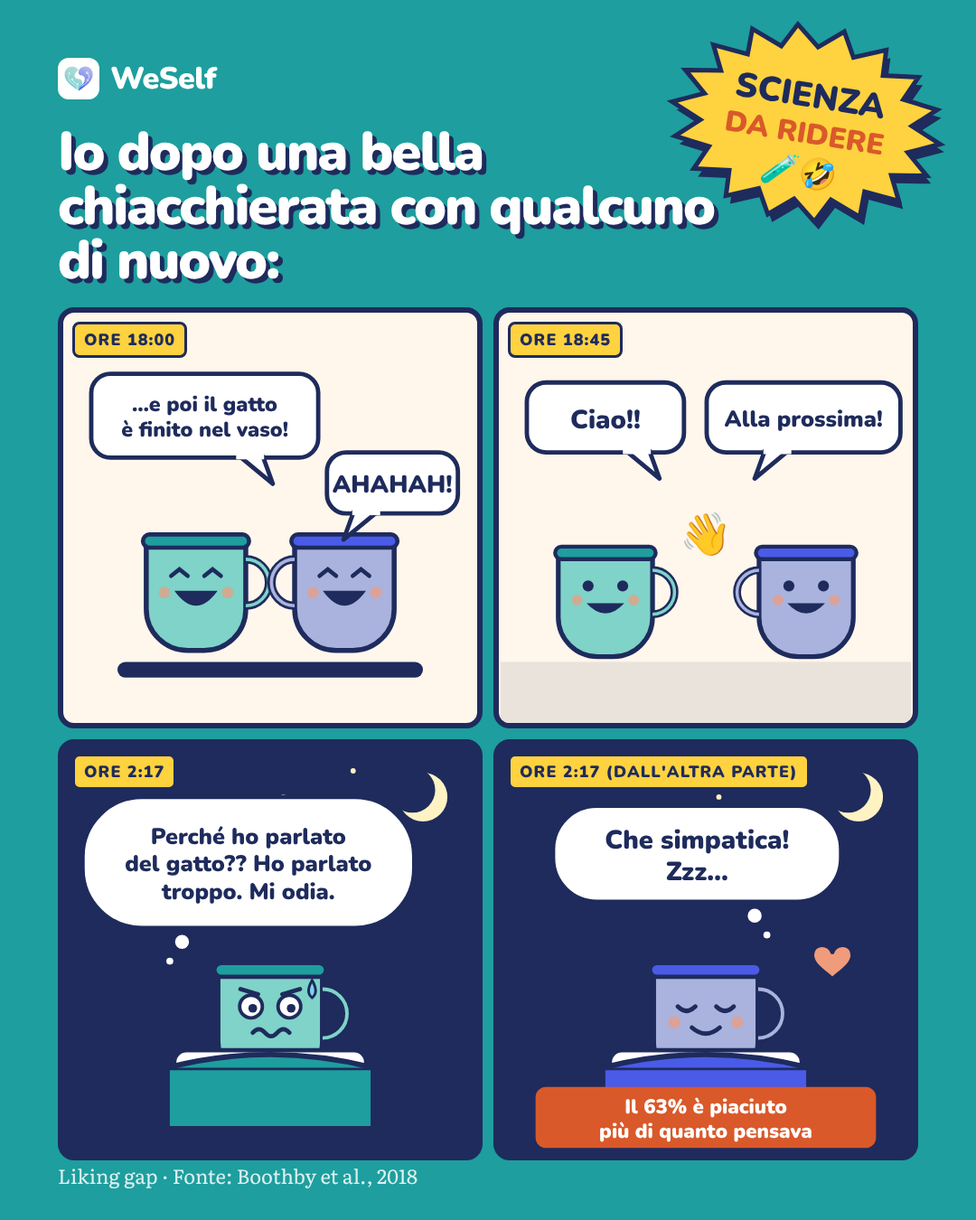
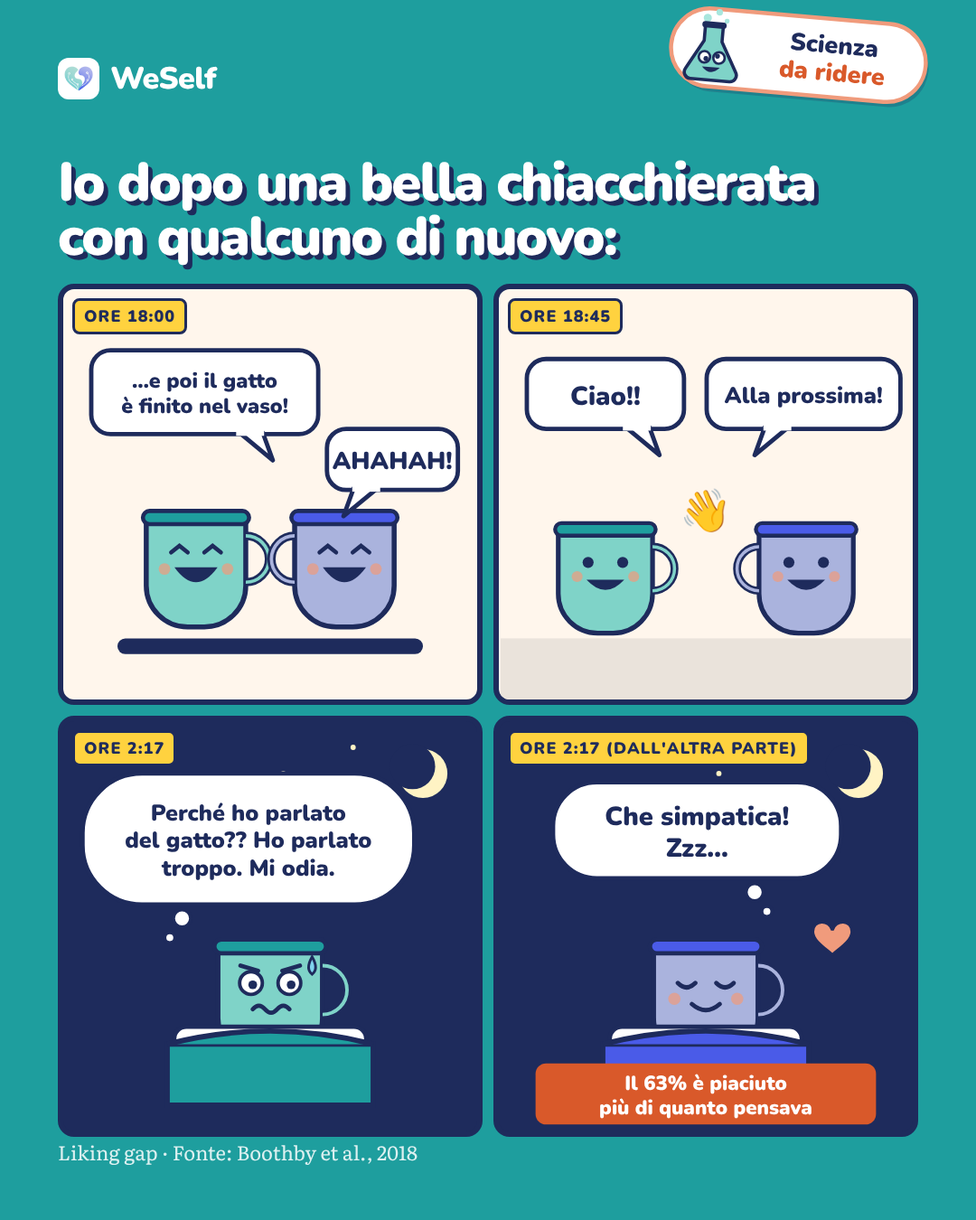
Meme: lighter «Scienza da ridere» sticker (laughing flask), comics may use humans and animals
Claude-Session: https://claude.ai/code/session_01KYQeP73Zvn8PeP6zhkL2Sc

diff --git a/meme/chiacchierata/slides.html b/meme/chiacchierata/slides.html
@@ -76,17 +76,31 @@ svg.shape{position:absolute;z-index:1}
 </style></head><body><style>
 .slide{background:#1E9E9E;color:#fff}
 .slide .top .brand,.slide .top .brand .we,.slide .top .brand .self{color:#fff}.slide .top .brand img{background:#fff;border-radius:12px;padding:4px}
-.burst{position:absolute;right:18px;top:6px;transform:rotate(9deg);z-index:3}
-.l1{font-weight:900;font-size:60px;line-height:1.0;letter-spacing:-.035em;text-shadow:5px 5px 0 #1E2B5C;padding-right:170px}
+.sticker{position:absolute;right:44px;top:22px;transform:rotate(5deg) scale(.9);transform-origin:right top;z-index:3}
+.l1{font-weight:900;font-size:60px;line-height:1.0;letter-spacing:-.035em;text-shadow:5px 5px 0 #1E2B5C;padding-right:20px}
 .grid4{display:grid;grid-template-columns:1fr 1fr;gap:12px}
 .pnl{position:relative;border:6px solid #1E2B5C;border-radius:18px;overflow:hidden;height:466px}
 .pnl svg{display:block;width:100%;height:100%}
 .pnl .time{position:absolute;left:10px;top:10px;background:#FFD23F;color:#1E2B5C;font-weight:900;font-size:18px;letter-spacing:.06em;padding:5px 10px;border:3px solid #1E2B5C;border-radius:8px;z-index:2}
 .srcl{font-family:Literata,serif;font-size:22px;color:rgba(255,255,255,.85)}
 </style>
-<section class="slide" id="s1"><svg class="burst" width="340" height="260" viewBox="0 0 340 260"><polygon points="320.0,130.0 286.2,144.8 311.0,166.9 272.2,172.5 284.9,199.4 245.8,195.1 245.0,223.5 210.4,209.8 196.0,236.4 170.0,215.0 144.0,236.4 129.6,209.8 95.0,223.5 94.2,195.1 55.1,199.4 67.8,172.5 29.0,166.9 53.8,144.8 20.0,130.0 53.8,115.2 29.0,93.1 67.8,87.5 55.1,60.6 94.2,64.9 95.0,36.5 129.6,50.2 144.0,23.6 170.0,45.0 196.0,23.6 210.4,50.2 245.0,36.5 245.8,64.9 284.9,60.6 272.2,87.5 311.0,93.1 286.2,115.2" fill="#1E2B5C" transform="translate(6 8)"/><polygon points="320.0,130.0 286.2,144.8 311.0,166.9 272.2,172.5 284.9,199.4 245.8,195.1 245.0,223.5 210.4,209.8 196.0,236.4 170.0,215.0 144.0,236.4 129.6,209.8 95.0,223.5 94.2,195.1 55.1,199.4 67.8,172.5 29.0,166.9 53.8,144.8 20.0,130.0 53.8,115.2 29.0,93.1 67.8,87.5 55.1,60.6 94.2,64.9 95.0,36.5 129.6,50.2 144.0,23.6 170.0,45.0 196.0,23.6 210.4,50.2 245.0,36.5 245.8,64.9 284.9,60.6 272.2,87.5 311.0,93.1 286.2,115.2" fill="#FFD23F" stroke="#1E2B5C" stroke-width="5"/><text x="170" y="112" text-anchor="middle" font-family="Nunito" font-weight="900" font-size="38" fill="#1E2B5C">SCIENZA</text><text x="170" y="152" text-anchor="middle" font-family="Nunito" font-weight="900" font-size="32" fill="#D9592A">DA RIDERE</text><text x="170" y="196" text-anchor="middle" font-family="Noto Color Emoji" font-size="34">🧪🤣</text></svg>
+<section class="slide" id="s1"><svg class="sticker" width="330" height="120" viewBox="0 0 330 120">
+  <rect x="8" y="10" width="314" height="96" rx="48" fill="#1E2B5C" opacity=".25" transform="translate(4 6)"/>
+  <rect x="8" y="10" width="314" height="96" rx="48" fill="#fff" stroke="#F09B7C" stroke-width="5"/>
+  <g transform="translate(30 18)">
+    <circle cx="20" cy="4" r="5" fill="#A8E6DD"/><circle cx="34" cy="-4" r="4" fill="#A8E6DD"/><circle cx="44" cy="6" r="3" fill="#A8E6DD"/>
+    <path d="M18 12 h22 v20 l20 36 a8 8 0 0 1 -7 12 h-48 a8 8 0 0 1 -7 -12 l20 -36z" fill="#7FD3C8" stroke="#1E2B5C" stroke-width="4" stroke-linejoin="round"/>
+    <rect x="14" y="8" width="30" height="8" rx="4" fill="#1E2B5C"/>
+    <circle cx="20" cy="52" r="7" fill="#fff" stroke="#1E2B5C" stroke-width="3"/><circle cx="38" cy="52" r="7" fill="#fff" stroke="#1E2B5C" stroke-width="3"/>
+    <circle cx="22" cy="54" r="3" fill="#1E2B5C"/><circle cx="36" cy="50" r="3" fill="#1E2B5C"/>
+    <path d="M18 64 q11 12 22 0" fill="#1E2B5C"/>
+  </g>
+  <text x="208" y="52" text-anchor="middle" font-family="Nunito" font-weight="900" font-size="30" fill="#1E2B5C">Scienza</text>
+  <text x="208" y="86" text-anchor="middle" font-family="Nunito" font-weight="900" font-size="30" fill="#D9592A">da ridere</text>
+</svg>
+
   <div class="top"><div class="brand"><img src="weself-mark.png"><span><span class="we">We</span><span class="self">Self</span></span></div></div>
-  <div class="stack" style="margin-top:28px;gap:22px">
+  <div class="stack" style="margin-top:62px;gap:22px">
     <p class="l1">Io dopo una bella chiacchierata con qualcuno di nuovo:</p>
     <div class="grid4"><div class="pnl" style="background:#FFF6EC"><span class="time">ORE 18:00</span><svg width="470" height="470" viewBox="0 0 470 470"><rect x="60" y="400" width="350" height="18" rx="9" fill="#1E2B5C"/><g transform="translate(150 330) scale(0.95 0.95)"><path d="M-60 -70 h120 v80 a50 50 0 0 1 -50 50 h-20 a50 50 0 0 1 -50 -50z" fill="#7FD3C8" stroke="#1E2B5C" stroke-width="6"/><path d="M60 -50 a28 28 0 0 1 0 56" fill="none" stroke="#1E2B5C" stroke-width="10"/><path d="M60 -50 a28 28 0 0 1 0 56" fill="none" stroke="#7FD3C8" stroke-width="4"/><rect x="-64" y="-80" width="128" height="16" rx="8" fill="#1E9E9E" stroke="#1E2B5C" stroke-width="5"/><g transform="scale(1 1)"><path d="M-30 -30 l10 -8 l10 8" fill="none" stroke="#1E2B5C" stroke-width="5" stroke-linecap="round"/><path d="M10 -30 l10 -8 l10 8" fill="none" stroke="#1E2B5C" stroke-width="5" stroke-linecap="round"/><path d="M-26 -12 Q0 24 26 -12z" fill="#1E2B5C"/><circle cx="-38" cy="-10" r="7" fill="#F09B7C" opacity=".7"/><circle cx="38" cy="-10" r="7" fill="#F09B7C" opacity=".7"/></g></g><g transform="translate(320 330) scale(-0.95 0.95)"><path d="M-60 -70 h120 v80 a50 50 0 0 1 -50 50 h-20 a50 50 0 0 1 -50 -50z" fill="#AAB3DD" stroke="#1E2B5C" stroke-width="6"/><path d="M60 -50 a28 28 0 0 1 0 56" fill="none" stroke="#1E2B5C" stroke-width="10"/><path d="M60 -50 a28 28 0 0 1 0 56" fill="none" stroke="#AAB3DD" stroke-width="4"/><rect x="-64" y="-80" width="128" height="16" rx="8" fill="#4A5BE8" stroke="#1E2B5C" stroke-width="5"/><g transform="scale(-1 1)"><path d="M-30 -30 l10 -8 l10 8" fill="none" stroke="#1E2B5C" stroke-width="5" stroke-linecap="round"/><path d="M10 -30 l10 -8 l10 8" fill="none" stroke="#1E2B5C" stroke-width="5" stroke-linecap="round"/><path d="M-26 -12 Q0 24 26 -12z" fill="#1E2B5C"/><circle cx="-38" cy="-10" r="7" fill="#F09B7C" opacity=".7"/><circle cx="38" cy="-10" r="7" fill="#F09B7C" opacity=".7"/></g></g><rect x="30" y="70" width="260" height="96" rx="22" fill="#fff" stroke="#1E2B5C" stroke-width="5"/><path d="M198.0 163 L238.0 196 L226.0 163" fill="#fff" stroke="#1E2B5C" stroke-width="5" stroke-linejoin="round"/><rect x="196.0" y="156" width="32" height="12" fill="#fff"/><text x="160.0" y="113.2" text-anchor="middle" font-family="Nunito" font-weight="900" font-size="24" fill="#1E2B5C">…e poi il gatto</text><text x="160.0" y="142.0" text-anchor="middle" font-family="Nunito" font-weight="900" font-size="24" fill="#1E2B5C">è finito nel vaso!</text><rect x="300" y="160" width="150" height="70" rx="22" fill="#fff" stroke="#1E2B5C" stroke-width="5"/><path d="M331.0 227 L319.0 260 L359.0 227" fill="#fff" stroke="#1E2B5C" stroke-width="5" stroke-linejoin="round"/><rect x="329.0" y="220" width="32" height="12" fill="#fff"/><text x="375.0" y="206.2" text-anchor="middle" font-family="Nunito" font-weight="900" font-size="28" fill="#1E2B5C">AHAHAH!</text></svg></div><div class="pnl" style="background:#FFF6EC"><span class="time">ORE 18:45</span><svg width="470" height="470" viewBox="0 0 470 470"><rect x="0" y="400" width="470" height="70" fill="#EAE3DB"/><g transform="translate(120 340) scale(0.9 0.9)"><path d="M-60 -70 h120 v80 a50 50 0 0 1 -50 50 h-20 a50 50 0 0 1 -50 -50z" fill="#7FD3C8" stroke="#1E2B5C" stroke-width="6"/><path d="M60 -50 a28 28 0 0 1 0 56" fill="none" stroke="#1E2B5C" stroke-width="10"/><path d="M60 -50 a28 28 0 0 1 0 56" fill="none" stroke="#7FD3C8" stroke-width="4"/><rect x="-64" y="-80" width="128" height="16" rx="8" fill="#1E9E9E" stroke="#1E2B5C" stroke-width="5"/><g transform="scale(1 1)"><circle cx="-22" cy="-30" r="7" fill="#1E2B5C"/><circle cx="22" cy="-30" r="7" fill="#1E2B5C"/><path d="M-24 -8 Q0 18 24 -8" fill="#1E2B5C"/><circle cx="-36" cy="-12" r="7" fill="#F09B7C" opacity=".7"/><circle cx="36" cy="-12" r="7" fill="#F09B7C" opacity=".7"/></g></g><g transform="translate(350 340) scale(-0.9 0.9)"><path d="M-60 -70 h120 v80 a50 50 0 0 1 -50 50 h-20 a50 50 0 0 1 -50 -50z" fill="#AAB3DD" stroke="#1E2B5C" stroke-width="6"/><path d="M60 -50 a28 28 0 0 1 0 56" fill="none" stroke="#1E2B5C" stroke-width="10"/><path d="M60 -50 a28 28 0 0 1 0 56" fill="none" stroke="#AAB3DD" stroke-width="4"/><rect x="-64" y="-80" width="128" height="16" rx="8" fill="#4A5BE8" stroke="#1E2B5C" stroke-width="5"/><g transform="scale(-1 1)"><circle cx="-22" cy="-30" r="7" fill="#1E2B5C"/><circle cx="22" cy="-30" r="7" fill="#1E2B5C"/><path d="M-24 -8 Q0 18 24 -8" fill="#1E2B5C"/><circle cx="-36" cy="-12" r="7" fill="#F09B7C" opacity=".7"/><circle cx="36" cy="-12" r="7" fill="#F09B7C" opacity=".7"/></g></g><rect x="30" y="80" width="180" height="80" rx="22" fill="#fff" stroke="#1E2B5C" stroke-width="5"/><path d="M142.0 157 L182.0 190 L170.0 157" fill="#fff" stroke="#1E2B5C" stroke-width="5" stroke-linejoin="round"/><rect x="140.0" y="150" width="32" height="12" fill="#fff"/><text x="120.0" y="132.0" text-anchor="middle" font-family="Nunito" font-weight="900" font-size="30" fill="#1E2B5C">Ciao!!</text><rect x="236" y="80" width="222" height="80" rx="22" fill="#fff" stroke="#1E2B5C" stroke-width="5"/><path d="M303.0 157 L291.0 190 L331.0 157" fill="#fff" stroke="#1E2B5C" stroke-width="5" stroke-linejoin="round"/><rect x="301.0" y="150" width="32" height="12" fill="#fff"/><text x="347.0" y="130.4" text-anchor="middle" font-family="Nunito" font-weight="900" font-size="26" fill="#1E2B5C">Alla prossima!</text><text x="235" y="270" text-anchor="middle" font-family="Noto Color Emoji" font-size="48">👋</text></svg></div><div class="pnl" style="background:#1E2B5C"><span class="time">ORE 2:17</span><svg width="470" height="470" viewBox="0 0 470 470"><circle cx="410" cy="60" r="28" fill="#FFF3C4"/><circle cx="398" cy="52" r="26" fill="#1E2B5C"/><circle cx="60" cy="40" r="3" fill="#FFF3C4"/><circle cx="140" cy="90" r="3" fill="#FFF3C4"/><circle cx="330" cy="30" r="3" fill="#FFF3C4"/><circle cx="250" cy="60" r="3" fill="#FFF3C4"/><g transform="translate(235 330) scale(1.0 1.0)"><path d="M-60 -70 h120 v80 a50 50 0 0 1 -50 50 h-20 a50 50 0 0 1 -50 -50z" fill="#7FD3C8" stroke="#1E2B5C" stroke-width="6"/><path d="M60 -50 a28 28 0 0 1 0 56" fill="none" stroke="#1E2B5C" stroke-width="10"/><path d="M60 -50 a28 28 0 0 1 0 56" fill="none" stroke="#7FD3C8" stroke-width="4"/><rect x="-64" y="-80" width="128" height="16" rx="8" fill="#1E9E9E" stroke="#1E2B5C" stroke-width="5"/><g transform="scale(1 1)"><circle cx="-22" cy="-30" r="13" fill="#fff" stroke="#1E2B5C" stroke-width="4"/><circle cx="22" cy="-30" r="13" fill="#fff" stroke="#1E2B5C" stroke-width="4"/><circle cx="-20" cy="-28" r="5" fill="#1E2B5C"/><circle cx="24" cy="-28" r="5" fill="#1E2B5C"/><path d="M-34 -50 l20 6 M34 -50 l-20 6" stroke="#1E2B5C" stroke-width="5" stroke-linecap="round"/><path d="M-20 0 q7 -8 14 0 q7 8 14 0 q7 -8 14 0" fill="none" stroke="#1E2B5C" stroke-width="5" stroke-linecap="round"/><path d="M48 -60 q8 14 0 20 q-8 -6 0 -20z" fill="#7FD3EE" stroke="#1E2B5C" stroke-width="3"/></g></g><rect x="125" y="350" width="220" height="40" rx="14" fill="#fff" stroke="#1E2B5C" stroke-width="5"/><path d="M117 370 h236 v70 h-236z" fill="#1E9E9E" stroke="#1E2B5C" stroke-width="6"/><path d="M117 370 q118 -30 236 0" fill="#1E9E9E" stroke="#1E2B5C" stroke-width="6"/><rect x="20" y="60" width="380" height="150" rx="68" fill="#fff" stroke="#1E2B5C" stroke-width="5"/><circle cx="134.0" cy="226" r="10" fill="#fff" stroke="#1E2B5C" stroke-width="4"/><circle cx="120.0" cy="248" r="6" fill="#fff" stroke="#1E2B5C" stroke-width="4"/><text x="210.0" y="114.2" text-anchor="middle" font-family="Nunito" font-weight="900" font-size="26" fill="#1E2B5C">Perché ho parlato</text><text x="210.0" y="145.4" text-anchor="middle" font-family="Nunito" font-weight="900" font-size="26" fill="#1E2B5C">del gatto?? Ho parlato</text><text x="210.0" y="176.6" text-anchor="middle" font-family="Nunito" font-weight="900" font-size="26" fill="#1E2B5C">troppo. Mi odia.</text></svg></div><div class="pnl" style="background:#1E2B5C"><span class="time">ORE 2:17 (DALL'ALTRA PARTE)</span><svg width="470" height="470" viewBox="0 0 470 470"><circle cx="410" cy="60" r="28" fill="#FFF3C4"/><circle cx="398" cy="52" r="26" fill="#1E2B5C"/><circle cx="60" cy="40" r="3" fill="#FFF3C4"/><circle cx="140" cy="90" r="3" fill="#FFF3C4"/><circle cx="330" cy="30" r="3" fill="#FFF3C4"/><circle cx="250" cy="60" r="3" fill="#FFF3C4"/><g transform="translate(235 330) scale(1.0 1.0)"><path d="M-60 -70 h120 v80 a50 50 0 0 1 -50 50 h-20 a50 50 0 0 1 -50 -50z" fill="#AAB3DD" stroke="#1E2B5C" stroke-width="6"/><path d="M60 -50 a28 28 0 0 1 0 56" fill="none" stroke="#1E2B5C" stroke-width="10"/><path d="M60 -50 a28 28 0 0 1 0 56" fill="none" stroke="#AAB3DD" stroke-width="4"/><rect x="-64" y="-80" width="128" height="16" rx="8" fill="#4A5BE8" stroke="#1E2B5C" stroke-width="5"/><g transform="scale(1 1)"><path d="M-32 -30 q10 10 20 0" fill="none" stroke="#1E2B5C" stroke-width="5" stroke-linecap="round"/><path d="M12 -30 q10 10 20 0" fill="none" stroke="#1E2B5C" stroke-width="5" stroke-linecap="round"/><path d="M-16 -6 Q0 8 16 -6" fill="none" stroke="#1E2B5C" stroke-width="5" stroke-linecap="round"/><circle cx="-36" cy="-12" r="7" fill="#F09B7C" opacity=".7"/><circle cx="36" cy="-12" r="7" fill="#F09B7C" opacity=".7"/></g></g><rect x="125" y="350" width="220" height="40" rx="14" fill="#fff" stroke="#1E2B5C" stroke-width="5"/><path d="M117 370 h236 v70 h-236z" fill="#4A5BE8" stroke="#1E2B5C" stroke-width="6"/><path d="M117 370 q118 -30 236 0" fill="#4A5BE8" stroke="#1E2B5C" stroke-width="6"/><rect x="60" y="70" width="330" height="110" rx="50" fill="#fff" stroke="#1E2B5C" stroke-width="5"/><circle cx="291.0" cy="196" r="10" fill="#fff" stroke="#1E2B5C" stroke-width="4"/><circle cx="305.0" cy="218" r="6" fill="#fff" stroke="#1E2B5C" stroke-width="4"/><text x="225.0" y="119.0" text-anchor="middle" font-family="Nunito" font-weight="900" font-size="30" fill="#1E2B5C">Che simpatica!</text><text x="225.0" y="155.0" text-anchor="middle" font-family="Nunito" font-weight="900" font-size="30" fill="#1E2B5C">Zzz…</text><path transform="translate(380 230) scale(1.6)" d="M0 6 C-2 -2 -14 -2 -14 7 C-14 15 0 22 0 24 C0 22 14 15 14 7 C14 -2 2 -2 0 6Z" fill="#F09B7C" stroke="#1E2B5C" stroke-width="2"/><rect x="40" y="392" width="390" height="70" rx="12" fill="#D9592A"/><text x="235" y="422" text-anchor="middle" font-family="Nunito" font-weight="900" font-size="23" fill="#fff">Il 63% è piaciuto</text><text x="235" y="450" text-anchor="middle" font-family="Nunito" font-weight="900" font-size="23" fill="#fff">più di quanto pensava</text></svg></div></div>
   </div>

diff --git a/meme/chiacchierata/body.html b/meme/chiacchierata/body.html
@@ -1,17 +1,31 @@
 <style>
 .slide{background:#1E9E9E;color:#fff}
 .slide .top .brand,.slide .top .brand .we,.slide .top .brand .self{color:#fff}.slide .top .brand img{background:#fff;border-radius:12px;padding:4px}
-.burst{position:absolute;right:18px;top:6px;transform:rotate(9deg);z-index:3}
-.l1{font-weight:900;font-size:60px;line-height:1.0;letter-spacing:-.035em;text-shadow:5px 5px 0 #1E2B5C;padding-right:170px}
+.sticker{position:absolute;right:44px;top:22px;transform:rotate(5deg) scale(.9);transform-origin:right top;z-index:3}
+.l1{font-weight:900;font-size:60px;line-height:1.0;letter-spacing:-.035em;text-shadow:5px 5px 0 #1E2B5C;padding-right:20px}
 .grid4{display:grid;grid-template-columns:1fr 1fr;gap:12px}
 .pnl{position:relative;border:6px solid #1E2B5C;border-radius:18px;overflow:hidden;height:466px}
 .pnl svg{display:block;width:100%;height:100%}
 .pnl .time{position:absolute;left:10px;top:10px;background:#FFD23F;color:#1E2B5C;font-weight:900;font-size:18px;letter-spacing:.06em;padding:5px 10px;border:3px solid #1E2B5C;border-radius:8px;z-index:2}
 .srcl{font-family:Literata,serif;font-size:22px;color:rgba(255,255,255,.85)}
 </style>
-<section class="slide" id="s1"><svg class="burst" width="340" height="260" viewBox="0 0 340 260"><polygon points="320.0,130.0 286.2,144.8 311.0,166.9 272.2,172.5 284.9,199.4 245.8,195.1 245.0,223.5 210.4,209.8 196.0,236.4 170.0,215.0 144.0,236.4 129.6,209.8 95.0,223.5 94.2,195.1 55.1,199.4 67.8,172.5 29.0,166.9 53.8,144.8 20.0,130.0 53.8,115.2 29.0,93.1 67.8,87.5 55.1,60.6 94.2,64.9 95.0,36.5 129.6,50.2 144.0,23.6 170.0,45.0 196.0,23.6 210.4,50.2 245.0,36.5 245.8,64.9 284.9,60.6 272.2,87.5 311.0,93.1 286.2,115.2" fill="#1E2B5C" transform="translate(6 8)"/><polygon points="320.0,130.0 286.2,144.8 311.0,166.9 272.2,172.5 284.9,199.4 245.8,195.1 245.0,223.5 210.4,209.8 196.0,236.4 170.0,215.0 144.0,236.4 129.6,209.8 95.0,223.5 94.2,195.1 55.1,199.4 67.8,172.5 29.0,166.9 53.8,144.8 20.0,130.0 53.8,115.2 29.0,93.1 67.8,87.5 55.1,60.6 94.2,64.9 95.0,36.5 129.6,50.2 144.0,23.6 170.0,45.0 196.0,23.6 210.4,50.2 245.0,36.5 245.8,64.9 284.9,60.6 272.2,87.5 311.0,93.1 286.2,115.2" fill="#FFD23F" stroke="#1E2B5C" stroke-width="5"/><text x="170" y="112" text-anchor="middle" font-family="Nunito" font-weight="900" font-size="38" fill="#1E2B5C">SCIENZA</text><text x="170" y="152" text-anchor="middle" font-family="Nunito" font-weight="900" font-size="32" fill="#D9592A">DA RIDERE</text><text x="170" y="196" text-anchor="middle" font-family="Noto Color Emoji" font-size="34">🧪🤣</text></svg>
+<section class="slide" id="s1"><svg class="sticker" width="330" height="120" viewBox="0 0 330 120">
+  <rect x="8" y="10" width="314" height="96" rx="48" fill="#1E2B5C" opacity=".25" transform="translate(4 6)"/>
+  <rect x="8" y="10" width="314" height="96" rx="48" fill="#fff" stroke="#F09B7C" stroke-width="5"/>
+  <g transform="translate(30 18)">
+    <circle cx="20" cy="4" r="5" fill="#A8E6DD"/><circle cx="34" cy="-4" r="4" fill="#A8E6DD"/><circle cx="44" cy="6" r="3" fill="#A8E6DD"/>
+    <path d="M18 12 h22 v20 l20 36 a8 8 0 0 1 -7 12 h-48 a8 8 0 0 1 -7 -12 l20 -36z" fill="#7FD3C8" stroke="#1E2B5C" stroke-width="4" stroke-linejoin="round"/>
+    <rect x="14" y="8" width="30" height="8" rx="4" fill="#1E2B5C"/>
+    <circle cx="20" cy="52" r="7" fill="#fff" stroke="#1E2B5C" stroke-width="3"/><circle cx="38" cy="52" r="7" fill="#fff" stroke="#1E2B5C" stroke-width="3"/>
+    <circle cx="22" cy="54" r="3" fill="#1E2B5C"/><circle cx="36" cy="50" r="3" fill="#1E2B5C"/>
+    <path d="M18 64 q11 12 22 0" fill="#1E2B5C"/>
+  </g>
+  <text x="208" y="52" text-anchor="middle" font-family="Nunito" font-weight="900" font-size="30" fill="#1E2B5C">Scienza</text>
+  <text x="208" y="86" text-anchor="middle" font-family="Nunito" font-weight="900" font-size="30" fill="#D9592A">da ridere</text>
+</svg>
+
   <div class="top"><div class="brand"><img src="weself-mark.png"><span><span class="we">We</span><span class="self">Self</span></span></div></div>
-  <div class="stack" style="margin-top:28px;gap:22px">
+  <div class="stack" style="margin-top:62px;gap:22px">
     <p class="l1">Io dopo una bella chiacchierata con qualcuno di nuovo:</p>
     <div class="grid4"><div class="pnl" style="background:#FFF6EC"><span class="time">ORE 18:00</span><svg width="470" height="470" viewBox="0 0 470 470"><rect x="60" y="400" width="350" height="18" rx="9" fill="#1E2B5C"/><g transform="translate(150 330) scale(0.95 0.95)"><path d="M-60 -70 h120 v80 a50 50 0 0 1 -50 50 h-20 a50 50 0 0 1 -50 -50z" fill="#7FD3C8" stroke="#1E2B5C" stroke-width="6"/><path d="M60 -50 a28 28 0 0 1 0 56" fill="none" stroke="#1E2B5C" stroke-width="10"/><path d="M60 -50 a28 28 0 0 1 0 56" fill="none" stroke="#7FD3C8" stroke-width="4"/><rect x="-64" y="-80" width="128" height="16" rx="8" fill="#1E9E9E" stroke="#1E2B5C" stroke-width="5"/><g transform="scale(1 1)"><path d="M-30 -30 l10 -8 l10 8" fill="none" stroke="#1E2B5C" stroke-width="5" stroke-linecap="round"/><path d="M10 -30 l10 -8 l10 8" fill="none" stroke="#1E2B5C" stroke-width="5" stroke-linecap="round"/><path d="M-26 -12 Q0 24 26 -12z" fill="#1E2B5C"/><circle cx="-38" cy="-10" r="7" fill="#F09B7C" opacity=".7"/><circle cx="38" cy="-10" r="7" fill="#F09B7C" opacity=".7"/></g></g><g transform="translate(320 330) scale(-0.95 0.95)"><path d="M-60 -70 h120 v80 a50 50 0 0 1 -50 50 h-20 a50 50 0 0 1 -50 -50z" fill="#AAB3DD" stroke="#1E2B5C" stroke-width="6"/><path d="M60 -50 a28 28 0 0 1 0 56" fill="none" stroke="#1E2B5C" stroke-width="10"/><path d="M60 -50 a28 28 0 0 1 0 56" fill="none" stroke="#AAB3DD" stroke-width="4"/><rect x="-64" y="-80" width="128" height="16" rx="8" fill="#4A5BE8" stroke="#1E2B5C" stroke-width="5"/><g transform="scale(-1 1)"><path d="M-30 -30 l10 -8 l10 8" fill="none" stroke="#1E2B5C" stroke-width="5" stroke-linecap="round"/><path d="M10 -30 l10 -8 l10 8" fill="none" stroke="#1E2B5C" stroke-width="5" stroke-linecap="round"/><path d="M-26 -12 Q0 24 26 -12z" fill="#1E2B5C"/><circle cx="-38" cy="-10" r="7" fill="#F09B7C" opacity=".7"/><circle cx="38" cy="-10" r="7" fill="#F09B7C" opacity=".7"/></g></g><rect x="30" y="70" width="260" height="96" rx="22" fill="#fff" stroke="#1E2B5C" stroke-width="5"/><path d="M198.0 163 L238.0 196 L226.0 163" fill="#fff" stroke="#1E2B5C" stroke-width="5" stroke-linejoin="round"/><rect x="196.0" y="156" width="32" height="12" fill="#fff"/><text x="160.0" y="113.2" text-anchor="middle" font-family="Nunito" font-weight="900" font-size="24" fill="#1E2B5C">…e poi il gatto</text><text x="160.0" y="142.0" text-anchor="middle" font-family="Nunito" font-weight="900" font-size="24" fill="#1E2B5C">è finito nel vaso!</text><rect x="300" y="160" width="150" height="70" rx="22" fill="#fff" stroke="#1E2B5C" stroke-width="5"/><path d="M331.0 227 L319.0 260 L359.0 227" fill="#fff" stroke="#1E2B5C" stroke-width="5" stroke-linejoin="round"/><rect x="329.0" y="220" width="32" height="12" fill="#fff"/><text x="375.0" y="206.2" text-anchor="middle" font-family="Nunito" font-weight="900" font-size="28" fill="#1E2B5C">AHAHAH!</text></svg></div><div class="pnl" style="background:#FFF6EC"><span class="time">ORE 18:45</span><svg width="470" height="470" viewBox="0 0 470 470"><rect x="0" y="400" width="470" height="70" fill="#EAE3DB"/><g transform="translate(120 340) scale(0.9 0.9)"><path d="M-60 -70 h120 v80 a50 50 0 0 1 -50 50 h-20 a50 50 0 0 1 -50 -50z" fill="#7FD3C8" stroke="#1E2B5C" stroke-width="6"/><path d="M60 -50 a28 28 0 0 1 0 56" fill="none" stroke="#1E2B5C" stroke-width="10"/><path d="M60 -50 a28 28 0 0 1 0 56" fill="none" stroke="#7FD3C8" stroke-width="4"/><rect x="-64" y="-80" width="128" height="16" rx="8" fill="#1E9E9E" stroke="#1E2B5C" stroke-width="5"/><g transform="scale(1 1)"><circle cx="-22" cy="-30" r="7" fill="#1E2B5C"/><circle cx="22" cy="-30" r="7" fill="#1E2B5C"/><path d="M-24 -8 Q0 18 24 -8" fill="#1E2B5C"/><circle cx="-36" cy="-12" r="7" fill="#F09B7C" opacity=".7"/><circle cx="36" cy="-12" r="7" fill="#F09B7C" opacity=".7"/></g></g><g transform="translate(350 340) scale(-0.9 0.9)"><path d="M-60 -70 h120 v80 a50 50 0 0 1 -50 50 h-20 a50 50 0 0 1 -50 -50z" fill="#AAB3DD" stroke="#1E2B5C" stroke-width="6"/><path d="M60 -50 a28 28 0 0 1 0 56" fill="none" stroke="#1E2B5C" stroke-width="10"/><path d="M60 -50 a28 28 0 0 1 0 56" fill="none" stroke="#AAB3DD" stroke-width="4"/><rect x="-64" y="-80" width="128" height="16" rx="8" fill="#4A5BE8" stroke="#1E2B5C" stroke-width="5"/><g transform="scale(-1 1)"><circle cx="-22" cy="-30" r="7" fill="#1E2B5C"/><circle cx="22" cy="-30" r="7" fill="#1E2B5C"/><path d="M-24 -8 Q0 18 24 -8" fill="#1E2B5C"/><circle cx="-36" cy="-12" r="7" fill="#F09B7C" opacity=".7"/><circle cx="36" cy="-12" r="7" fill="#F09B7C" opacity=".7"/></g></g><rect x="30" y="80" width="180" height="80" rx="22" fill="#fff" stroke="#1E2B5C" stroke-width="5"/><path d="M142.0 157 L182.0 190 L170.0 157" fill="#fff" stroke="#1E2B5C" stroke-width="5" stroke-linejoin="round"/><rect x="140.0" y="150" width="32" height="12" fill="#fff"/><text x="120.0" y="132.0" text-anchor="middle" font-family="Nunito" font-weight="900" font-size="30" fill="#1E2B5C">Ciao!!</text><rect x="236" y="80" width="222" height="80" rx="22" fill="#fff" stroke="#1E2B5C" stroke-width="5"/><path d="M303.0 157 L291.0 190 L331.0 157" fill="#fff" stroke="#1E2B5C" stroke-width="5" stroke-linejoin="round"/><rect x="301.0" y="150" width="32" height="12" fill="#fff"/><text x="347.0" y="130.4" text-anchor="middle" font-family="Nunito" font-weight="900" font-size="26" fill="#1E2B5C">Alla prossima!</text><text x="235" y="270" text-anchor="middle" font-family="Noto Color Emoji" font-size="48">👋</text></svg></div><div class="pnl" style="background:#1E2B5C"><span class="time">ORE 2:17</span><svg width="470" height="470" viewBox="0 0 470 470"><circle cx="410" cy="60" r="28" fill="#FFF3C4"/><circle cx="398" cy="52" r="26" fill="#1E2B5C"/><circle cx="60" cy="40" r="3" fill="#FFF3C4"/><circle cx="140" cy="90" r="3" fill="#FFF3C4"/><circle cx="330" cy="30" r="3" fill="#FFF3C4"/><circle cx="250" cy="60" r="3" fill="#FFF3C4"/><g transform="translate(235 330) scale(1.0 1.0)"><path d="M-60 -70 h120 v80 a50 50 0 0 1 -50 50 h-20 a50 50 0 0 1 -50 -50z" fill="#7FD3C8" stroke="#1E2B5C" stroke-width="6"/><path d="M60 -50 a28 28 0 0 1 0 56" fill="none" stroke="#1E2B5C" stroke-width="10"/><path d="M60 -50 a28 28 0 0 1 0 56" fill="none" stroke="#7FD3C8" stroke-width="4"/><rect x="-64" y="-80" width="128" height="16" rx="8" fill="#1E9E9E" stroke="#1E2B5C" stroke-width="5"/><g transform="scale(1 1)"><circle cx="-22" cy="-30" r="13" fill="#fff" stroke="#1E2B5C" stroke-width="4"/><circle cx="22" cy="-30" r="13" fill="#fff" stroke="#1E2B5C" stroke-width="4"/><circle cx="-20" cy="-28" r="5" fill="#1E2B5C"/><circle cx="24" cy="-28" r="5" fill="#1E2B5C"/><path d="M-34 -50 l20 6 M34 -50 l-20 6" stroke="#1E2B5C" stroke-width="5" stroke-linecap="round"/><path d="M-20 0 q7 -8 14 0 q7 8 14 0 q7 -8 14 0" fill="none" stroke="#1E2B5C" stroke-width="5" stroke-linecap="round"/><path d="M48 -60 q8 14 0 20 q-8 -6 0 -20z" fill="#7FD3EE" stroke="#1E2B5C" stroke-width="3"/></g></g><rect x="125" y="350" width="220" height="40" rx="14" fill="#fff" stroke="#1E2B5C" stroke-width="5"/><path d="M117 370 h236 v70 h-236z" fill="#1E9E9E" stroke="#1E2B5C" stroke-width="6"/><path d="M117 370 q118 -30 236 0" fill="#1E9E9E" stroke="#1E2B5C" stroke-width="6"/><rect x="20" y="60" width="380" height="150" rx="68" fill="#fff" stroke="#1E2B5C" stroke-width="5"/><circle cx="134.0" cy="226" r="10" fill="#fff" stroke="#1E2B5C" stroke-width="4"/><circle cx="120.0" cy="248" r="6" fill="#fff" stroke="#1E2B5C" stroke-width="4"/><text x="210.0" y="114.2" text-anchor="middle" font-family="Nunito" font-weight="900" font-size="26" fill="#1E2B5C">Perché ho parlato</text><text x="210.0" y="145.4" text-anchor="middle" font-family="Nunito" font-weight="900" font-size="26" fill="#1E2B5C">del gatto?? Ho parlato</text><text x="210.0" y="176.6" text-anchor="middle" font-family="Nunito" font-weight="900" font-size="26" fill="#1E2B5C">troppo. Mi odia.</text></svg></div><div class="pnl" style="background:#1E2B5C"><span class="time">ORE 2:17 (DALL'ALTRA PARTE)</span><svg width="470" height="470" viewBox="0 0 470 470"><circle cx="410" cy="60" r="28" fill="#FFF3C4"/><circle cx="398" cy="52" r="26" fill="#1E2B5C"/><circle cx="60" cy="40" r="3" fill="#FFF3C4"/><circle cx="140" cy="90" r="3" fill="#FFF3C4"/><circle cx="330" cy="30" r="3" fill="#FFF3C4"/><circle cx="250" cy="60" r="3" fill="#FFF3C4"/><g transform="translate(235 330) scale(1.0 1.0)"><path d="M-60 -70 h120 v80 a50 50 0 0 1 -50 50 h-20 a50 50 0 0 1 -50 -50z" fill="#AAB3DD" stroke="#1E2B5C" stroke-width="6"/><path d="M60 -50 a28 28 0 0 1 0 56" fill="none" stroke="#1E2B5C" stroke-width="10"/><path d="M60 -50 a28 28 0 0 1 0 56" fill="none" stroke="#AAB3DD" stroke-width="4"/><rect x="-64" y="-80" width="128" height="16" rx="8" fill="#4A5BE8" stroke="#1E2B5C" stroke-width="5"/><g transform="scale(1 1)"><path d="M-32 -30 q10 10 20 0" fill="none" stroke="#1E2B5C" stroke-width="5" stroke-linecap="round"/><path d="M12 -30 q10 10 20 0" fill="none" stroke="#1E2B5C" stroke-width="5" stroke-linecap="round"/><path d="M-16 -6 Q0 8 16 -6" fill="none" stroke="#1E2B5C" stroke-width="5" stroke-linecap="round"/><circle cx="-36" cy="-12" r="7" fill="#F09B7C" opacity=".7"/><circle cx="36" cy="-12" r="7" fill="#F09B7C" opacity=".7"/></g></g><rect x="125" y="350" width="220" height="40" rx="14" fill="#fff" stroke="#1E2B5C" stroke-width="5"/><path d="M117 370 h236 v70 h-236z" fill="#4A5BE8" stroke="#1E2B5C" stroke-width="6"/><path d="M117 370 q118 -30 236 0" fill="#4A5BE8" stroke="#1E2B5C" stroke-width="6"/><rect x="60" y="70" width="330" height="110" rx="50" fill="#fff" stroke="#1E2B5C" stroke-width="5"/><circle cx="291.0" cy="196" r="10" fill="#fff" stroke="#1E2B5C" stroke-width="4"/><circle cx="305.0" cy="218" r="6" fill="#fff" stroke="#1E2B5C" stroke-width="4"/><text x="225.0" y="119.0" text-anchor="middle" font-family="Nunito" font-weight="900" font-size="30" fill="#1E2B5C">Che simpatica!</text><text x="225.0" y="155.0" text-anchor="middle" font-family="Nunito" font-weight="900" font-size="30" fill="#1E2B5C">Zzz…</text><path transform="translate(380 230) scale(1.6)" d="M0 6 C-2 -2 -14 -2 -14 7 C-14 15 0 22 0 24 C0 22 14 15 14 7 C14 -2 2 -2 0 6Z" fill="#F09B7C" stroke="#1E2B5C" stroke-width="2"/><rect x="40" y="392" width="390" height="70" rx="12" fill="#D9592A"/><text x="235" y="422" text-anchor="middle" font-family="Nunito" font-weight="900" font-size="23" fill="#fff">Il 63% è piaciuto</text><text x="235" y="450" text-anchor="middle" font-family="Nunito" font-weight="900" font-size="23" fill="#fff">più di quanto pensava</text></svg></div></div>
   </div>

diff --git a/meme/errore-battitura/slides.html b/meme/errore-battitura/slides.html
@@ -76,10 +76,10 @@ svg.shape{position:absolute;z-index:1}
 </style></head><body><style>
 .slide{background:#1E9E9E;color:#fff}
 .slide .top .brand,.slide .top .brand .we,.slide .top .brand .self{color:#fff}.slide .top .brand img{background:#fff;border-radius:12px;padding:4px}
-.burst{position:absolute;right:18px;top:6px;transform:rotate(9deg);z-index:3}
+.sticker{position:absolute;right:44px;top:22px;transform:rotate(5deg) scale(.9);transform-origin:right top;z-index:3}
 .stamp{position:absolute;right:60px;top:52px;background:#F09B7C;color:#1E2B5C;font-weight:900;font-size:26px;letter-spacing:.12em;padding:12px 22px;border-radius:14px;transform:rotate(4deg);box-shadow:0 6px 0 #A64A30;z-index:3}
 .emo,.aud{font-family:'Noto Color Emoji',sans-serif;font-style:normal}
-.l1{font-weight:900;font-size:66px;line-height:1.0;letter-spacing:-.035em;text-shadow:5px 5px 0 #1E2B5C;padding-right:150px}
+.l1{font-weight:900;font-size:66px;line-height:1.0;letter-spacing:-.035em;text-shadow:5px 5px 0 #1E2B5C;padding-right:20px}
 .pan{position:relative;background:#1E2B5C;border-radius:30px;overflow:hidden;border:6px solid #0E1430}
 .pan .lbl{position:absolute;left:20px;top:18px;background:#fff;color:#1E2B5C;font-weight:900;font-size:24px;letter-spacing:.1em;padding:8px 16px;border-radius:12px;z-index:2}
 .pan .aud{display:flex;justify-content:center;gap:4px;font-size:50px;line-height:1;background:#0E1430;padding:14px 10px 16px}
@@ -89,9 +89,23 @@ svg.shape{position:absolute;z-index:1}
 .ask{font-weight:900;font-size:32px;color:#FFB48C}
 .srcl{font-family:Literata,serif;font-size:22px;color:rgba(255,255,255,.85)}
 </style>
-<section class="slide" id="s1"><svg class="burst" width="340" height="260" viewBox="0 0 340 260"><polygon points="320.0,130.0 286.2,144.8 311.0,166.9 272.2,172.5 284.9,199.4 245.8,195.1 245.0,223.5 210.4,209.8 196.0,236.4 170.0,215.0 144.0,236.4 129.6,209.8 95.0,223.5 94.2,195.1 55.1,199.4 67.8,172.5 29.0,166.9 53.8,144.8 20.0,130.0 53.8,115.2 29.0,93.1 67.8,87.5 55.1,60.6 94.2,64.9 95.0,36.5 129.6,50.2 144.0,23.6 170.0,45.0 196.0,23.6 210.4,50.2 245.0,36.5 245.8,64.9 284.9,60.6 272.2,87.5 311.0,93.1 286.2,115.2" fill="#1E2B5C" transform="translate(6 8)"/><polygon points="320.0,130.0 286.2,144.8 311.0,166.9 272.2,172.5 284.9,199.4 245.8,195.1 245.0,223.5 210.4,209.8 196.0,236.4 170.0,215.0 144.0,236.4 129.6,209.8 95.0,223.5 94.2,195.1 55.1,199.4 67.8,172.5 29.0,166.9 53.8,144.8 20.0,130.0 53.8,115.2 29.0,93.1 67.8,87.5 55.1,60.6 94.2,64.9 95.0,36.5 129.6,50.2 144.0,23.6 170.0,45.0 196.0,23.6 210.4,50.2 245.0,36.5 245.8,64.9 284.9,60.6 272.2,87.5 311.0,93.1 286.2,115.2" fill="#FFD23F" stroke="#1E2B5C" stroke-width="5"/><text x="170" y="112" text-anchor="middle" font-family="Nunito" font-weight="900" font-size="38" fill="#1E2B5C">SCIENZA</text><text x="170" y="152" text-anchor="middle" font-family="Nunito" font-weight="900" font-size="32" fill="#D9592A">DA RIDERE</text><text x="170" y="196" text-anchor="middle" font-family="Noto Color Emoji" font-size="34">🧪🤣</text></svg>
+<section class="slide" id="s1"><svg class="sticker" width="330" height="120" viewBox="0 0 330 120">
+  <rect x="8" y="10" width="314" height="96" rx="48" fill="#1E2B5C" opacity=".25" transform="translate(4 6)"/>
+  <rect x="8" y="10" width="314" height="96" rx="48" fill="#fff" stroke="#F09B7C" stroke-width="5"/>
+  <g transform="translate(30 18)">
+    <circle cx="20" cy="4" r="5" fill="#A8E6DD"/><circle cx="34" cy="-4" r="4" fill="#A8E6DD"/><circle cx="44" cy="6" r="3" fill="#A8E6DD"/>
+    <path d="M18 12 h22 v20 l20 36 a8 8 0 0 1 -7 12 h-48 a8 8 0 0 1 -7 -12 l20 -36z" fill="#7FD3C8" stroke="#1E2B5C" stroke-width="4" stroke-linejoin="round"/>
+    <rect x="14" y="8" width="30" height="8" rx="4" fill="#1E2B5C"/>
+    <circle cx="20" cy="52" r="7" fill="#fff" stroke="#1E2B5C" stroke-width="3"/><circle cx="38" cy="52" r="7" fill="#fff" stroke="#1E2B5C" stroke-width="3"/>
+    <circle cx="22" cy="54" r="3" fill="#1E2B5C"/><circle cx="36" cy="50" r="3" fill="#1E2B5C"/>
+    <path d="M18 64 q11 12 22 0" fill="#1E2B5C"/>
+  </g>
+  <text x="208" y="52" text-anchor="middle" font-family="Nunito" font-weight="900" font-size="30" fill="#1E2B5C">Scienza</text>
+  <text x="208" y="86" text-anchor="middle" font-family="Nunito" font-weight="900" font-size="30" fill="#D9592A">da ridere</text>
+</svg>
+
   <div class="top"><div class="brand"><img src="weself-mark.png"><span><span class="we">We</span><span class="self">Self</span></span></div></div>
-  <div class="stack" style="margin-top:34px;gap:24px">
+  <div class="stack" style="margin-top:62px;gap:24px">
     <p class="l1">Io dopo un errore di battitura nel gruppo di lavoro:</p>
     <div class="pan"><span class="lbl">COME LA VIVO IO</span><svg width="952" height="352" viewBox="0 0 952 320" preserveAspectRatio="xMidYMid slice" style="display:block"><polygon points="430,0 520,0 760,300 190,300" fill="#FFF3C4" fill-opacity="0.55"/><ellipse cx="475" cy="300" rx="300" ry="30" fill="#FFF3C4" fill-opacity="0.7"/><rect x="440" y="-6" width="70" height="34" rx="8" fill="#0E1430"/><g transform="translate(300 170)"><rect x="0" y="0" width="350" height="86" rx="26" fill="#fff"/><text x="26" y="56" font-family="Nunito" font-weight="900" font-size="36" fill="#1E2B5C">Buon<tspan fill="#D9592A">girono</tspan> a tutti!</text><ellipse cx="190" cy="44" rx="88" ry="36" fill="none" stroke="#D9592A" stroke-width="5" transform="rotate(-4 160 44)"/></g><text x="680" y="250" font-family="Noto Color Emoji" font-size="96">😰</text></svg><div class="aud"><span>😳</span><span>👀</span><span>😱</span><span>👀</span><span>🫢</span><span>👀</span><span>😳</span><span>👀</span><span>😱</span><span>👀</span><span>🫢</span><span>👀</span><span>😳</span></div><span class="pct">«L'hanno visto TUTTI.»</span></div>
     <div class="pan"><span class="lbl">COM'È ANDATA DAVVERO</span><svg width="952" height="352" viewBox="0 0 952 320" preserveAspectRatio="xMidYMid slice" style="display:block"><polygon points="430,0 520,0 760,300 190,300" fill="#FFF3C4" fill-opacity="0.55"/><ellipse cx="475" cy="300" rx="300" ry="30" fill="#FFF3C4" fill-opacity="0.7"/><rect x="440" y="-6" width="70" height="34" rx="8" fill="#0E1430"/><g transform="translate(300 170)"><rect x="0" y="0" width="350" height="86" rx="26" fill="#fff"/><text x="26" y="56" font-family="Nunito" font-weight="900" font-size="36" fill="#1E2B5C">Buon<tspan fill="#D9592A">girono</tspan> a tutti!</text><ellipse cx="190" cy="44" rx="88" ry="36" fill="none" stroke="#D9592A" stroke-width="5" transform="rotate(-4 160 44)"/></g><text x="680" y="250" font-family="Noto Color Emoji" font-size="70">🙂</text></svg><div class="aud"><span>😴</span><span>📱</span><span>👀</span><span>🍕</span><span>🥱</span><span>📱</span><span>🎧</span><span>👀</span><span>😴</span><span>📱</span><span>🍝</span><span>👀</span><span>🥱</span></div><span class="pct">Davvero: il 23%. Forse.</span></div>

diff --git a/meme/errore-battitura/body.html b/meme/errore-battitura/body.html
@@ -1,10 +1,10 @@
 <style>
 .slide{background:#1E9E9E;color:#fff}
 .slide .top .brand,.slide .top .brand .we,.slide .top .brand .self{color:#fff}.slide .top .brand img{background:#fff;border-radius:12px;padding:4px}
-.burst{position:absolute;right:18px;top:6px;transform:rotate(9deg);z-index:3}
+.sticker{position:absolute;right:44px;top:22px;transform:rotate(5deg) scale(.9);transform-origin:right top;z-index:3}
 .stamp{position:absolute;right:60px;top:52px;background:#F09B7C;color:#1E2B5C;font-weight:900;font-size:26px;letter-spacing:.12em;padding:12px 22px;border-radius:14px;transform:rotate(4deg);box-shadow:0 6px 0 #A64A30;z-index:3}
 .emo,.aud{font-family:'Noto Color Emoji',sans-serif;font-style:normal}
-.l1{font-weight:900;font-size:66px;line-height:1.0;letter-spacing:-.035em;text-shadow:5px 5px 0 #1E2B5C;padding-right:150px}
+.l1{font-weight:900;font-size:66px;line-height:1.0;letter-spacing:-.035em;text-shadow:5px 5px 0 #1E2B5C;padding-right:20px}
 .pan{position:relative;background:#1E2B5C;border-radius:30px;overflow:hidden;border:6px solid #0E1430}
 .pan .lbl{position:absolute;left:20px;top:18px;background:#fff;color:#1E2B5C;font-weight:900;font-size:24px;letter-spacing:.1em;padding:8px 16px;border-radius:12px;z-index:2}
 .pan .aud{display:flex;justify-content:center;gap:4px;font-size:50px;line-height:1;background:#0E1430;padding:14px 10px 16px}
@@ -14,9 +14,23 @@
 .ask{font-weight:900;font-size:32px;color:#FFB48C}
 .srcl{font-family:Literata,serif;font-size:22px;color:rgba(255,255,255,.85)}
 </style>
-<section class="slide" id="s1"><svg class="burst" width="340" height="260" viewBox="0 0 340 260"><polygon points="320.0,130.0 286.2,144.8 311.0,166.9 272.2,172.5 284.9,199.4 245.8,195.1 245.0,223.5 210.4,209.8 196.0,236.4 170.0,215.0 144.0,236.4 129.6,209.8 95.0,223.5 94.2,195.1 55.1,199.4 67.8,172.5 29.0,166.9 53.8,144.8 20.0,130.0 53.8,115.2 29.0,93.1 67.8,87.5 55.1,60.6 94.2,64.9 95.0,36.5 129.6,50.2 144.0,23.6 170.0,45.0 196.0,23.6 210.4,50.2 245.0,36.5 245.8,64.9 284.9,60.6 272.2,87.5 311.0,93.1 286.2,115.2" fill="#1E2B5C" transform="translate(6 8)"/><polygon points="320.0,130.0 286.2,144.8 311.0,166.9 272.2,172.5 284.9,199.4 245.8,195.1 245.0,223.5 210.4,209.8 196.0,236.4 170.0,215.0 144.0,236.4 129.6,209.8 95.0,223.5 94.2,195.1 55.1,199.4 67.8,172.5 29.0,166.9 53.8,144.8 20.0,130.0 53.8,115.2 29.0,93.1 67.8,87.5 55.1,60.6 94.2,64.9 95.0,36.5 129.6,50.2 144.0,23.6 170.0,45.0 196.0,23.6 210.4,50.2 245.0,36.5 245.8,64.9 284.9,60.6 272.2,87.5 311.0,93.1 286.2,115.2" fill="#FFD23F" stroke="#1E2B5C" stroke-width="5"/><text x="170" y="112" text-anchor="middle" font-family="Nunito" font-weight="900" font-size="38" fill="#1E2B5C">SCIENZA</text><text x="170" y="152" text-anchor="middle" font-family="Nunito" font-weight="900" font-size="32" fill="#D9592A">DA RIDERE</text><text x="170" y="196" text-anchor="middle" font-family="Noto Color Emoji" font-size="34">🧪🤣</text></svg>
+<section class="slide" id="s1"><svg class="sticker" width="330" height="120" viewBox="0 0 330 120">
+  <rect x="8" y="10" width="314" height="96" rx="48" fill="#1E2B5C" opacity=".25" transform="translate(4 6)"/>
+  <rect x="8" y="10" width="314" height="96" rx="48" fill="#fff" stroke="#F09B7C" stroke-width="5"/>
+  <g transform="translate(30 18)">
+    <circle cx="20" cy="4" r="5" fill="#A8E6DD"/><circle cx="34" cy="-4" r="4" fill="#A8E6DD"/><circle cx="44" cy="6" r="3" fill="#A8E6DD"/>
+    <path d="M18 12 h22 v20 l20 36 a8 8 0 0 1 -7 12 h-48 a8 8 0 0 1 -7 -12 l20 -36z" fill="#7FD3C8" stroke="#1E2B5C" stroke-width="4" stroke-linejoin="round"/>
+    <rect x="14" y="8" width="30" height="8" rx="4" fill="#1E2B5C"/>
+    <circle cx="20" cy="52" r="7" fill="#fff" stroke="#1E2B5C" stroke-width="3"/><circle cx="38" cy="52" r="7" fill="#fff" stroke="#1E2B5C" stroke-width="3"/>
+    <circle cx="22" cy="54" r="3" fill="#1E2B5C"/><circle cx="36" cy="50" r="3" fill="#1E2B5C"/>
+    <path d="M18 64 q11 12 22 0" fill="#1E2B5C"/>
+  </g>
+  <text x="208" y="52" text-anchor="middle" font-family="Nunito" font-weight="900" font-size="30" fill="#1E2B5C">Scienza</text>
+  <text x="208" y="86" text-anchor="middle" font-family="Nunito" font-weight="900" font-size="30" fill="#D9592A">da ridere</text>
+</svg>
+
   <div class="top"><div class="brand"><img src="weself-mark.png"><span><span class="we">We</span><span class="self">Self</span></span></div></div>
-  <div class="stack" style="margin-top:34px;gap:24px">
+  <div class="stack" style="margin-top:62px;gap:24px">
     <p class="l1">Io dopo un errore di battitura nel gruppo di lavoro:</p>
     <div class="pan"><span class="lbl">COME LA VIVO IO</span><svg width="952" height="352" viewBox="0 0 952 320" preserveAspectRatio="xMidYMid slice" style="display:block"><polygon points="430,0 520,0 760,300 190,300" fill="#FFF3C4" fill-opacity="0.55"/><ellipse cx="475" cy="300" rx="300" ry="30" fill="#FFF3C4" fill-opacity="0.7"/><rect x="440" y="-6" width="70" height="34" rx="8" fill="#0E1430"/><g transform="translate(300 170)"><rect x="0" y="0" width="350" height="86" rx="26" fill="#fff"/><text x="26" y="56" font-family="Nunito" font-weight="900" font-size="36" fill="#1E2B5C">Buon<tspan fill="#D9592A">girono</tspan> a tutti!</text><ellipse cx="190" cy="44" rx="88" ry="36" fill="none" stroke="#D9592A" stroke-width="5" transform="rotate(-4 160 44)"/></g><text x="680" y="250" font-family="Noto Color Emoji" font-size="96">😰</text></svg><div class="aud"><span>😳</span><span>👀</span><span>😱</span><span>👀</span><span>🫢</span><span>👀</span><span>😳</span><span>👀</span><span>😱</span><span>👀</span><span>🫢</span><span>👀</span><span>😳</span></div><span class="pct">«L'hanno visto TUTTI.»</span></div>
     <div class="pan"><span class="lbl">COM'È ANDATA DAVVERO</span><svg width="952" height="352" viewBox="0 0 952 320" preserveAspectRatio="xMidYMid slice" style="display:block"><polygon points="430,0 520,0 760,300 190,300" fill="#FFF3C4" fill-opacity="0.55"/><ellipse cx="475" cy="300" rx="300" ry="30" fill="#FFF3C4" fill-opacity="0.7"/><rect x="440" y="-6" width="70" height="34" rx="8" fill="#0E1430"/><g transform="translate(300 170)"><rect x="0" y="0" width="350" height="86" rx="26" fill="#fff"/><text x="26" y="56" font-family="Nunito" font-weight="900" font-size="36" fill="#1E2B5C">Buon<tspan fill="#D9592A">girono</tspan> a tutti!</text><ellipse cx="190" cy="44" rx="88" ry="36" fill="none" stroke="#D9592A" stroke-width="5" transform="rotate(-4 160 44)"/></g><text x="680" y="250" font-family="Noto Color Emoji" font-size="70">🙂</text></svg><div class="aud"><span>😴</span><span>📱</span><span>👀</span><span>🍕</span><span>🥱</span><span>📱</span><span>🎧</span><span>👀</span><span>😴</span><span>📱</span><span>🍝</span><span>👀</span><span>🥱</span></div><span class="pct">Davvero: il 23%. Forse.</span></div>

diff --git a/meme/_stile/sticker.html b/meme/_stile/sticker.html
@@ -1,0 +1,14 @@
+<svg class="sticker" width="330" height="120" viewBox="0 0 330 120">
+  <rect x="8" y="10" width="314" height="96" rx="48" fill="#1E2B5C" opacity=".25" transform="translate(4 6)"/>
+  <rect x="8" y="10" width="314" height="96" rx="48" fill="#fff" stroke="#F09B7C" stroke-width="5"/>
+  <g transform="translate(30 18)">
+    <circle cx="20" cy="4" r="5" fill="#A8E6DD"/><circle cx="34" cy="-4" r="4" fill="#A8E6DD"/><circle cx="44" cy="6" r="3" fill="#A8E6DD"/>
+    <path d="M18 12 h22 v20 l20 36 a8 8 0 0 1 -7 12 h-48 a8 8 0 0 1 -7 -12 l20 -36z" fill="#7FD3C8" stroke="#1E2B5C" stroke-width="4" stroke-linejoin="round"/>
+    <rect x="14" y="8" width="30" height="8" rx="4" fill="#1E2B5C"/>
+    <circle cx="20" cy="52" r="7" fill="#fff" stroke="#1E2B5C" stroke-width="3"/><circle cx="38" cy="52" r="7" fill="#fff" stroke="#1E2B5C" stroke-width="3"/>
+    <circle cx="22" cy="54" r="3" fill="#1E2B5C"/><circle cx="36" cy="50" r="3" fill="#1E2B5C"/>
+    <path d="M18 64 q11 12 22 0" fill="#1E2B5C"/>
+  </g>
+  <text x="208" y="52" text-anchor="middle" font-family="Nunito" font-weight="900" font-size="30" fill="#1E2B5C">Scienza</text>
+  <text x="208" y="86" text-anchor="middle" font-family="Nunito" font-weight="900" font-size="30" fill="#D9592A">da ridere</text>
+</svg>

diff --git a/CLAUDE.md b/CLAUDE.md
@@ -66,6 +66,8 @@ Agreed with the founder (24 Nov 2026). A light, shareable post built on one veri
 - **Shareable first:** the joke must be funny for anyone, not only for WeSelf followers: an everyday situation people recognise in themselves or a friend, so they share it with their own audience (tag, send, repost). No inside jokes about WeSelf (followers, our posts, our app): WeSelf is the signature (logo, sticker, science line), not the subject.
 - **Voice:** first person «io» is allowed for small, harmless self-irony («io quando…», «io a marzo / io a novembre»). We laugh at the situation, never at people or groups.
 - **Look:** teal background with the «SCIENZA DA RIDERE» sticker (column look being finalised). Our own meme structures (chats, calendars, expectation vs reality, «nessuno: / io:», no / sì) drawn in brand style with emoji and icons, or a classic meme image only when it is a licensed stock photo (e.g. from Canva) chosen by the founder; real photo, not AI; check the Pro licence. No screenshots from films, TV, music videos or other creators.
+- **Comics and cartoons:** strips and cartoons may use drawn humans and animals (founder's choice, 24 Nov 2026), as well as objects with faces. Characters are stylised, never real people.
+- **Column tag:** the «Scienza da ridere» sticker with the laughing flask (`meme/_stile/sticker.html`), top right on the teal background; bold title with a dark offset shadow.
 - **Let the drawing tell the joke:** the illustration takes most of the space and must be funny on its own; never explain the joke on the image. Text on the image is only the setup line, short labels inside the drawing and the source line.
 - **Science:** the verified fact lives inside the drawing (a label, a count, e.g. 3 faces out of 13 = 23%) plus a short source line («Fonte: Autore, anno»); the explanation of the study goes in the caption. Because there is only one image, «Mito o realtà?», «I limiti» and «Un'onestà necessaria» go in the caption; full citation + DOI in the first comment, as usual.
 - **Never** on loneliness, anxiety, grief, addiction or other sensitive topics; never on 25 November or other awareness days; no political or local-news jokes.
